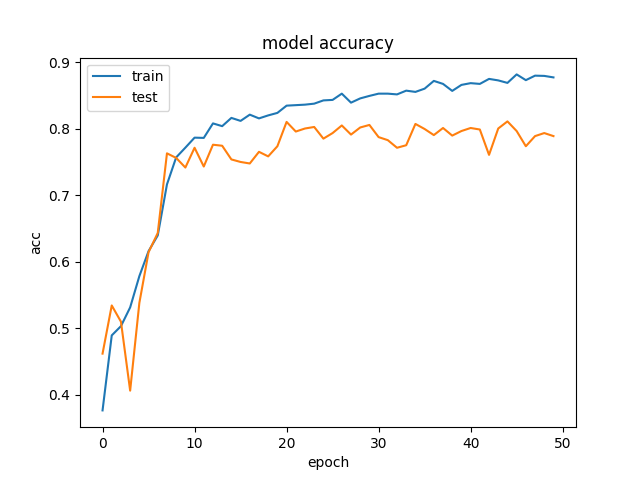
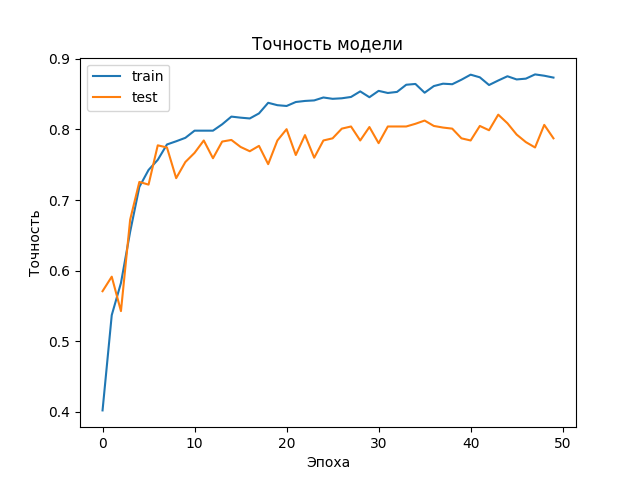
Plots localization

diff --git a/frontend/src/services/prediction.ts b/frontend/src/services/prediction.ts
@@ -22,7 +22,7 @@ export default class PredictionService {
 
     const response = await axios.post(url, formData, config);
 
-    console.log(response.data);
+    console.log(JSON.stringify(response.data));
     return response.data;
   };
 }

diff --git a/model/train.py b/model/train.py
@@ -32,11 +32,11 @@ def train_neural_network(X, y):
         keras.layers.Activation('softmax', name='output')
     ])
 
-    print(model.summary)
-
     model.compile(loss='sparse_categorical_crossentropy',
                   optimizer='rmsprop',
                   metrics=['accuracy'])
+
+    print(model.summary())
 
     cnn_history = model.fit(x_traincnn, y_train,
                             batch_size=16, epochs=50,
@@ -45,9 +45,9 @@ def train_neural_network(X, y):
     # Loss plotting
     plt.plot(cnn_history.history['loss'])
     plt.plot(cnn_history.history['val_loss'])
-    plt.title('model loss')
-    plt.ylabel('loss')
-    plt.xlabel('epoch')
+    plt.title('Функция ошибки')
+    plt.ylabel('Ошибка')
+    plt.xlabel('Эпоха')
     plt.legend(['train', 'test'], loc='upper left')
     plt.savefig('plots/loss.png')
     plt.close()
@@ -55,9 +55,9 @@ def train_neural_network(X, y):
     # Accuracy plotting
     plt.plot(cnn_history.history['accuracy'])
     plt.plot(cnn_history.history['val_accuracy'])
-    plt.title('model accuracy')
-    plt.ylabel('acc')
-    plt.xlabel('epoch')
+    plt.title('Точность модели')
+    plt.ylabel('Точность')
+    plt.xlabel('Эпоха')
     plt.legend(['train', 'test'], loc='upper left')
     plt.savefig('plots/accuracy.png')
 
